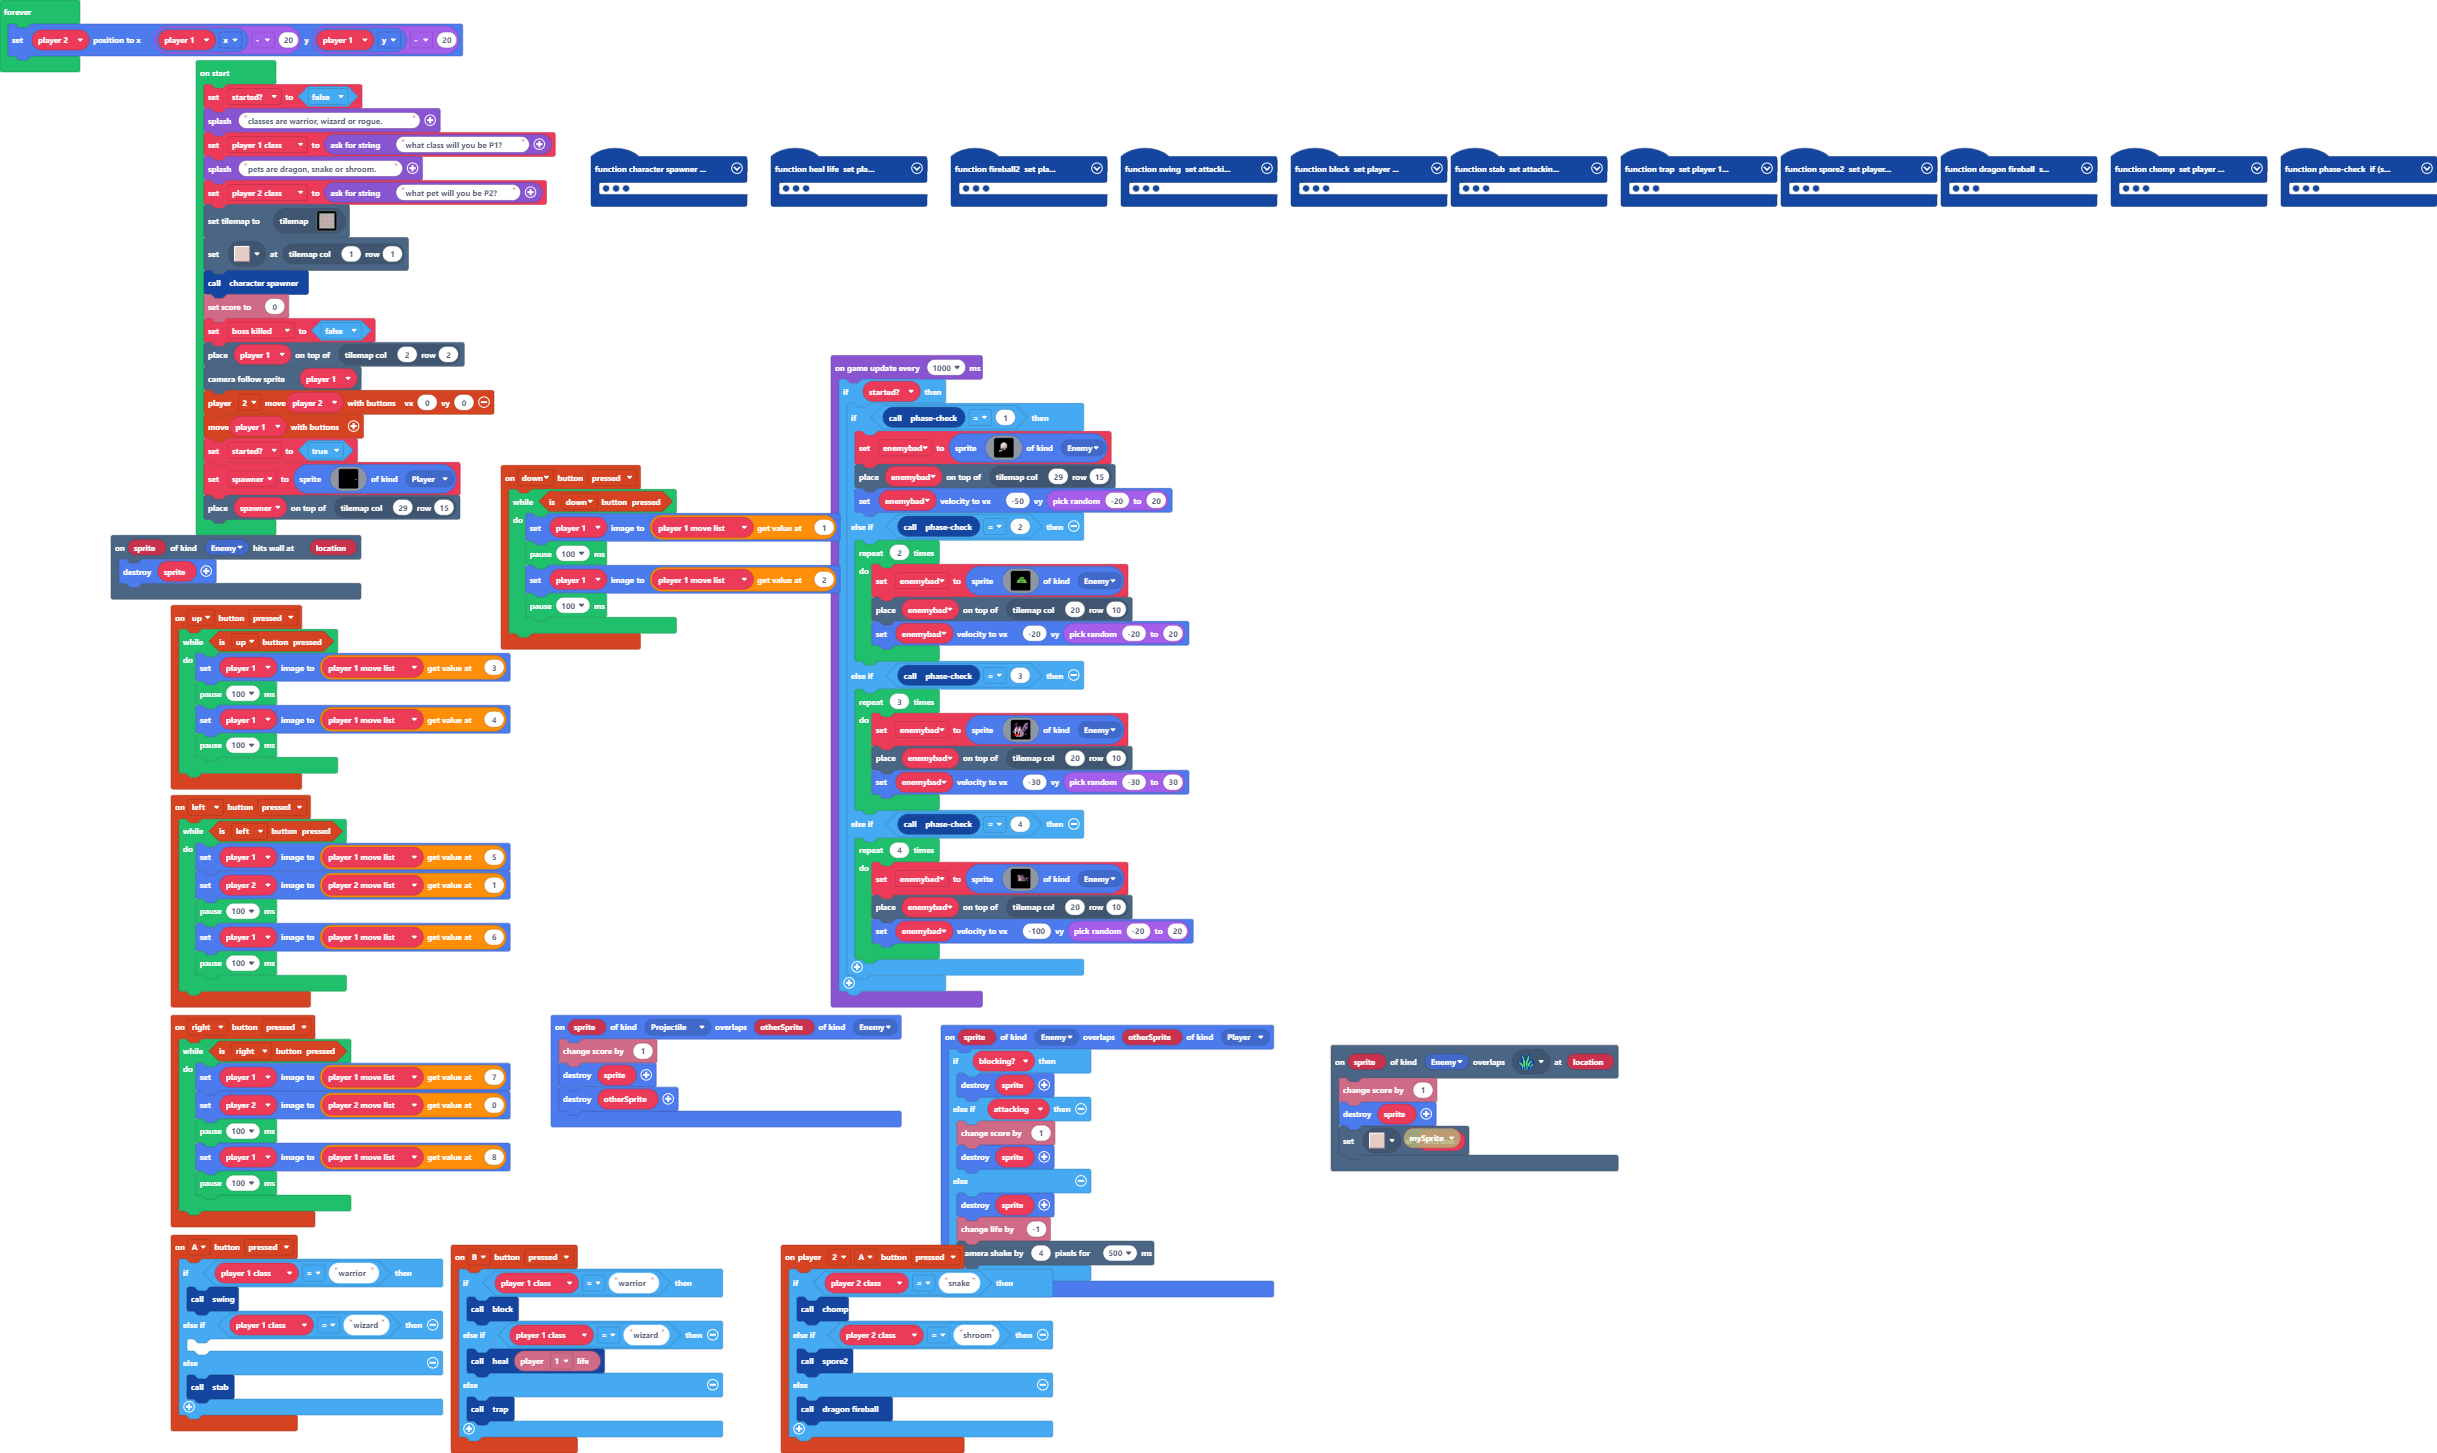
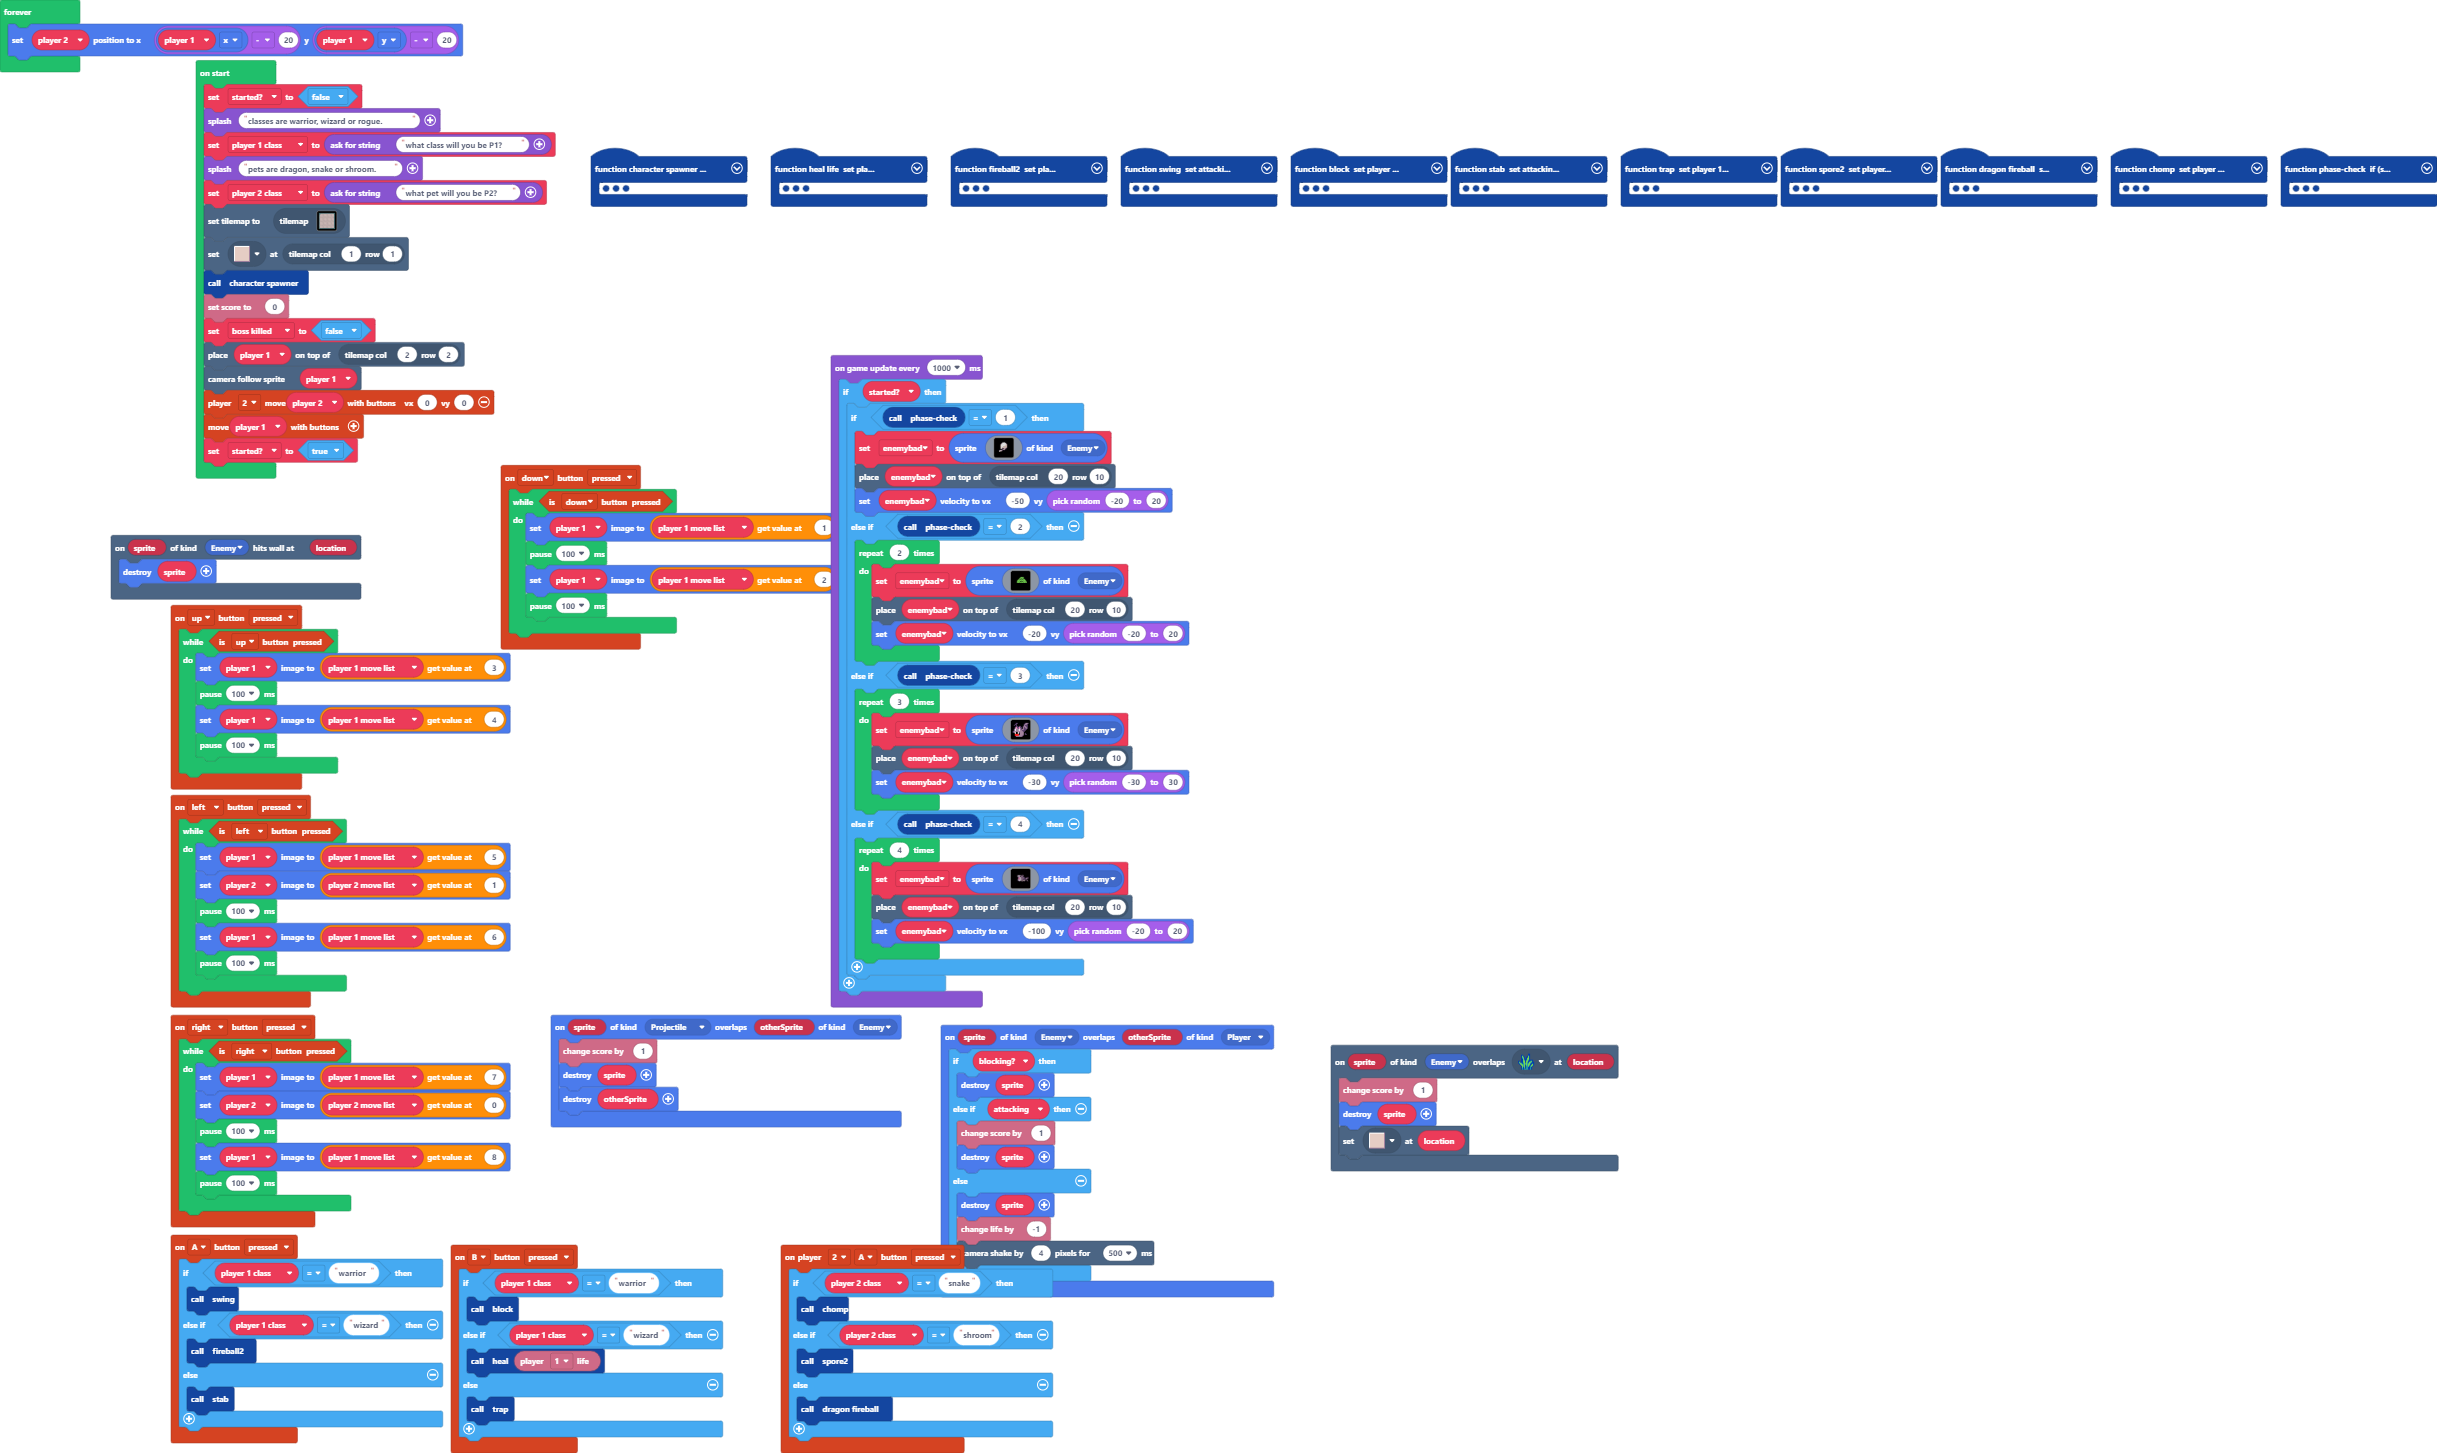
Update main.blocks, main.ts

Changed region(s): [[0.0624, 0.8981, 0.1871, 1.0], [0.0624, 0.3097, 0.1871, 0.3716], [0.5613, 0.7743, 0.5925, 0.8052]]

diff --git a/main.ts b/main.ts
@@ -79,7 +79,7 @@ controller.A.onEvent(ControllerButtonEvent.Pressed, function () {
     if (player_1_class == "warrior") {
         swing()
     } else if (player_1_class == "wizard") {
-    	
+        fireball2()
     } else {
         stab()
     }
@@ -1373,25 +1373,6 @@ scene.cameraFollowSprite(player_1)
 controller.player2.moveSprite(player_2, 0, 0)
 controller.moveSprite(player_1)
 started = true
-let spawner = sprites.create(img`
-    . . . . . . . . . . . . . . . . 
-    . . . . . . . . . . . . . . . . 
-    . . . . . . . . . . . . . . . . 
-    . . . . . . . . . . . . . . . . 
-    . . . . . . . . . . . . . . . . 
-    . . . . . . . . . . . . . . . . 
-    . . . . . . . . . . . . . . . . 
-    . . . . . . . . . . . . . . . . 
-    . . . . . . . . . . . . . . . d 
-    . . . . . . . . . . . . . . . . 
-    . . . . . . . . . . . . . . . . 
-    . . . . . . . . . . . . . . . . 
-    . . . . . . . . . . . . . . . . 
-    . . . . . . . . . . . . . . . . 
-    . . . . . . . . . . . . . . . . 
-    . . . . . . . . . . . . . . . . 
-    `, SpriteKind.Player)
-tiles.placeOnTile(spawner, tiles.getTileLocation(29, 15))
 game.onUpdateInterval(1000, function () {
     if (started) {
         if (phasecheck() == 1) {
@@ -1421,7 +1402,7 @@ game.onUpdateInterval(1000, function () {
                 ........................
                 ........................
                 `, SpriteKind.Enemy)
-            tiles.placeOnTile(enemybad, tiles.getTileLocation(29, 15))
+            tiles.placeOnTile(enemybad, tiles.getTileLocation(20, 10))
             enemybad.setVelocity(-50, randint(-20, 20))
         } else if (phasecheck() == 2) {
             for (let index = 0; index < 2; index++) {
